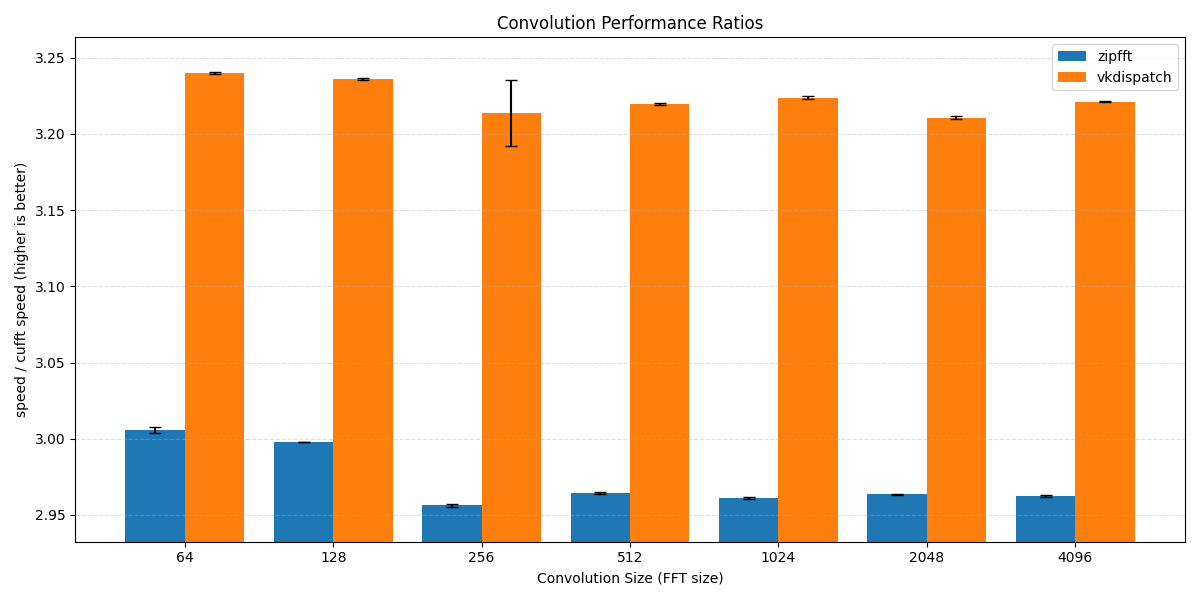
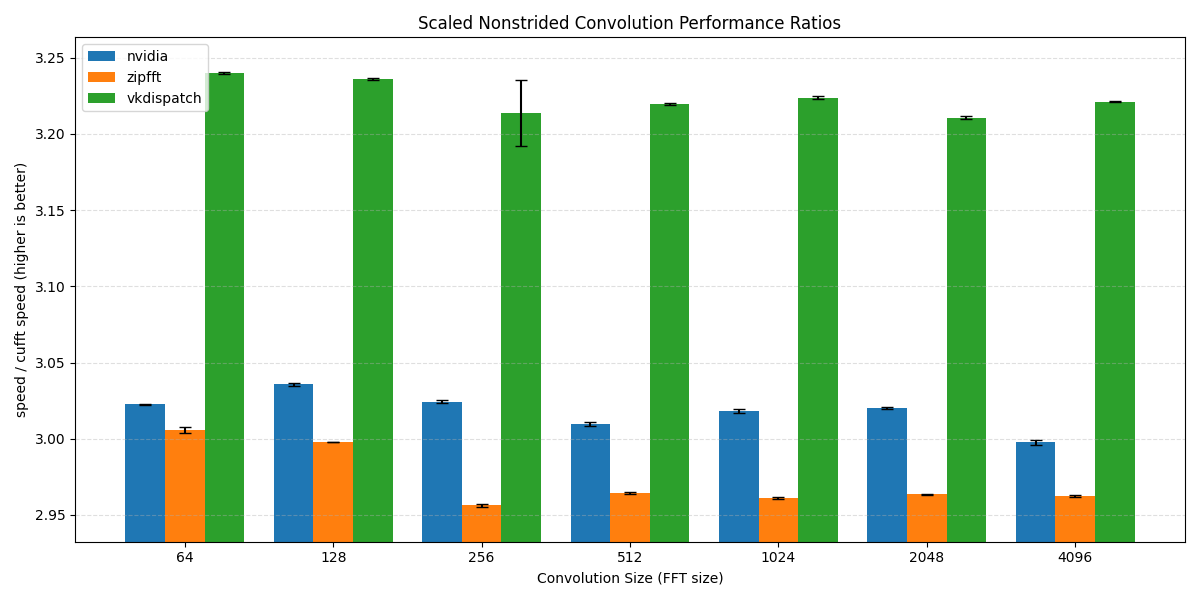
Added nvidia tests

Changed region(s): [[0.0617, 0.06, 0.9867, 0.9], [0.3392, 0.03, 0.7092, 0.06]]

diff --git a/convolution_nvidia/make_graph.py b/convolution_nvidia/make_graph.py
@@ -1,0 +1,98 @@
+import glob
+import csv
+from typing import Dict, Tuple, Set, List
+from matplotlib import pyplot as plt
+import numpy as np
+
+# Nested structure:
+# merged[backend][fft_size] = (mean, std)
+MergedType = Dict[str, Dict[int, Tuple[float, float]]]
+
+def read_bench_csvs() -> Tuple[MergedType, Set[str], Set[int]]:
+    pattern = 'test_results/convolution_nvidia_*.csv'
+    files = glob.glob(pattern)
+
+    merged: MergedType = {}
+    backends: Set[str] = set()
+    fft_sizes: Set[int] = set()
+
+    for filename in files:
+        print(f'Reading: {filename}')
+        with open(filename, newline='') as f:
+            reader = csv.DictReader(f)
+            for row in reader:
+                backend = row['Backend'].strip()
+                size = int(row['FFT Size'])
+                mean = float(row['Mean'])
+                std = float(row['Std Dev'])
+
+                backends.add(backend)
+                fft_sizes.add(size)
+
+                if backend not in merged:
+                    merged[backend] = {}
+
+                # last one wins if duplicates appear across files
+                merged[backend][size] = (mean, std)
+
+    return merged, backends, fft_sizes
+
+def save_grouped_bar_graph(backends: List[str],
+                           fft_sizes: List[int],
+                           merged: MergedType,
+                           min_fft_size: int = None,
+                           outfile: str = 'test_results/convolution_nvidia_graph.png'):
+    # Choose the sizes to display
+    used_fft_sizes = [s for s in sorted(fft_sizes) if (min_fft_size is None or s >= min_fft_size)]
+    if not used_fft_sizes:
+        print('No FFT sizes to plot after filtering.')
+        return
+
+    x = np.arange(len(used_fft_sizes), dtype=float)
+    n_backends = max(1, len(backends))
+    width = 0.8 / n_backends  # total group width ~0.8
+
+    plt.figure(figsize=(12, 6))
+
+    for j, backend in enumerate(backends):
+        # Center bars around tick: offsets in [-0.5..+0.5]*group_width
+        xj = x + (j - (n_backends - 1) / 2) * width
+
+        xs, heights, errs = [], [], []
+        for i, size in enumerate(used_fft_sizes):
+            entry = merged.get(backend, {}).get(size)
+            if entry is None:
+                # Skip if this backend didn't report this size
+                continue
+            mean, std = entry
+            xs.append(xj[i])
+            heights.append(mean)
+            errs.append(std)
+
+        if xs:
+            plt.bar(xs, heights, width=width, yerr=errs, capsize=4, label=backend)
+
+    # X axis as categorical sizes (more readable for grouped bars)
+    plt.xticks(x, [str(s) for s in used_fft_sizes])
+    plt.xlabel('Convolution Size (FFT size)')
+    plt.ylabel('ms (lower is better)')
+    plt.title('Convolution Performance Comparison (Grouped Bars)')
+    plt.grid(True, axis='y', linestyle='--', alpha=0.4)
+    plt.legend()
+    plt.tight_layout()
+    plt.savefig(outfile)
+    print(f'Saved {outfile}')
+
+if __name__ == '__main__':
+    merged, backends, fft_sizes = read_bench_csvs()
+
+    print('\nSummary:')
+    print(f'Backends found: {sorted(backends)}')
+    print(f'Convolution sizes found: {sorted(fft_sizes)}')
+    print(f'Total entries: {sum(len(v) for v in merged.values())}')
+
+    sorted_backends = sorted(backends)
+    sorted_fft_sizes = sorted(fft_sizes)
+
+    # Grouped bar chart (side-by-side per size)
+    save_grouped_bar_graph(sorted_backends, sorted_fft_sizes, merged)

diff --git a/convolution_nvidia/parse_stdout_log.py b/convolution_nvidia/parse_stdout_log.py
@@ -1,0 +1,89 @@
+import sys
+import numpy as np
+
+filename = sys.argv[1]
+
+max_iter_count = 0
+
+cufft_data = {}
+cufftdx_data = {}
+
+with open(filename, 'r') as f:
+    full_text = f.read()
+
+    lines_list = list(full_text.splitlines())
+
+    for ii, line in enumerate(lines_list):
+        correct_start = line.startswith('Iteration ')
+        correct_fft_index = line.find('fft_size=')
+
+        if correct_start and correct_fft_index != -1:
+            parts = line.split('|')
+
+            iter_count = int(parts[0].strip().split(' ')[1])
+            fft_size = int(parts[1].strip().split('=')[1])
+
+            cufftdx_line = lines_list[ii + 7]
+            cufft_line = lines_list[ii + 16]
+
+            assert cufftdx_line.startswith('Time (all) [ms_n]: ')
+            assert cufft_line.startswith('Time (all) [ms_n]: ')
+            
+            prefix_size = len('Time (all) [ms_n]: ')
+
+            cufftdx_time = float(cufftdx_line[prefix_size:].strip())
+            cufft_time = float(cufft_line[prefix_size:].strip())
+
+            cufft_data[(iter_count, fft_size)] = cufft_time
+            cufftdx_data[(iter_count, fft_size)] = cufftdx_time
+
+            max_iter_count = max(max_iter_count, iter_count)
+
+            #print(ii, iter_count, fft_size)
+            #print("CufftDx time: ", cufftdx_time)
+            #print("Cufft time: ", cufft_time)
+
+run_str = "".join([f"Run {i+1} (ms)," for i in range(max_iter_count)])
+
+fft_sizes = [64, 128, 256, 512, 1024, 2048, 4096]
+
+cufft_header = "Backend,FFT Size," + run_str + "Mean,Std Dev\n"
+cufftdx_header = "Backend,FFT Size," + run_str + "Mean,Std Dev\n"
+
+ratios_header = "Backend,FFT Size,Ratio,Std Dev\n"
+
+for fft_size in fft_sizes:
+    cufft_iterations = []
+    cufftdx_iterations = []
+
+    for i in range(max_iter_count):
+        cufft_iterations.append(cufft_data[(i + 1, fft_size)])
+        cufftdx_iterations.append(cufftdx_data[(i + 1, fft_size)])
+
+
+    cufft_mean = np.mean(cufft_iterations)
+    cufft_std = np.std(cufft_iterations)
+
+    cufftdx_mean = np.mean(cufftdx_iterations)
+    cufftdx_std = np.std(cufftdx_iterations)
+
+    cufft_data_str = ",".join([f"{x:.4f}" for x in cufft_iterations])
+    cufftdx_data_str = ",".join([f"{x:.4f}" for x in cufftdx_iterations])
+
+    cufft_header += f"cufft,{fft_size}," + cufft_data_str + f",{cufft_mean:.4f},{cufft_std:.4f}\n"
+    cufftdx_header += f"cufftdx,{fft_size}," + cufftdx_data_str + f",{cufftdx_mean:.4f},{cufftdx_std:.4f}\n"
+
+    ratio = cufft_mean / cufftdx_mean
+
+    ratio_std = ratio * np.sqrt( (cufft_std / cufft_mean)**2 + (cufftdx_std / cufftdx_mean)**2 )
+
+    ratios_header += f"nvidia,{fft_size},{ratio:.4f},{ratio_std:.4f}\n"
+
+with open('test_results/convolution_nvidia_cufft.csv', 'w') as f:
+    f.write(cufft_header)
+
+with open('test_results/convolution_nvidia_cufftdx.csv', 'w') as f:
+    f.write(cufftdx_header)
+
+with open('test_results/nvidia_ratios.csv', 'w') as f:
+    f.write(ratios_header)

diff --git a/convolution_nonstrided_scaled/make_ratios_graph.py b/convolution_nonstrided_scaled/make_ratios_graph.py
@@ -118,10 +118,10 @@ if __name__ == '__main__':
     backends_nvidia: Set[str] = set()
     fft_sizes_nvidia: Set[int] = set()
 
-    if os.path.exists('ratios_nvidia.csv'):
+    if os.path.exists('nvidia_ratios.csv'):
         display_backends = ["nvidia"] + display_backends
 
-        with open('ratios_nvidia.csv', newline='') as f:
+        with open('nvidia_ratios.csv', newline='') as f:
             reader = csv.DictReader(f)
             for row in reader:
                 backend = row['Backend'].strip()
@@ -138,9 +138,9 @@ if __name__ == '__main__':
                 # last one wins if duplicates appear across files
                 merged_nvidia[backend][size] = (ratio, std_dev)
         
-        assert fft_sizes_nvidia == fft_sizes, "FFT sizes in ratios_nvidia.csv do not match conv_nonstrided_*.csv"
+        assert fft_sizes_nvidia == fft_sizes, "FFT sizes in nvidia_ratios.csv do not match conv_nonstrided_*.csv"
     else:
-        print('Warning: ratios_nvidia.csv not found, skipping NVIDIA data.')
+        print('Warning: nvidia_ratios.csv not found, skipping NVIDIA data.')
 
     print('\nNVIDIA Summary:')
     print(f'Backends found: {sorted(backends_nvidia)}')
